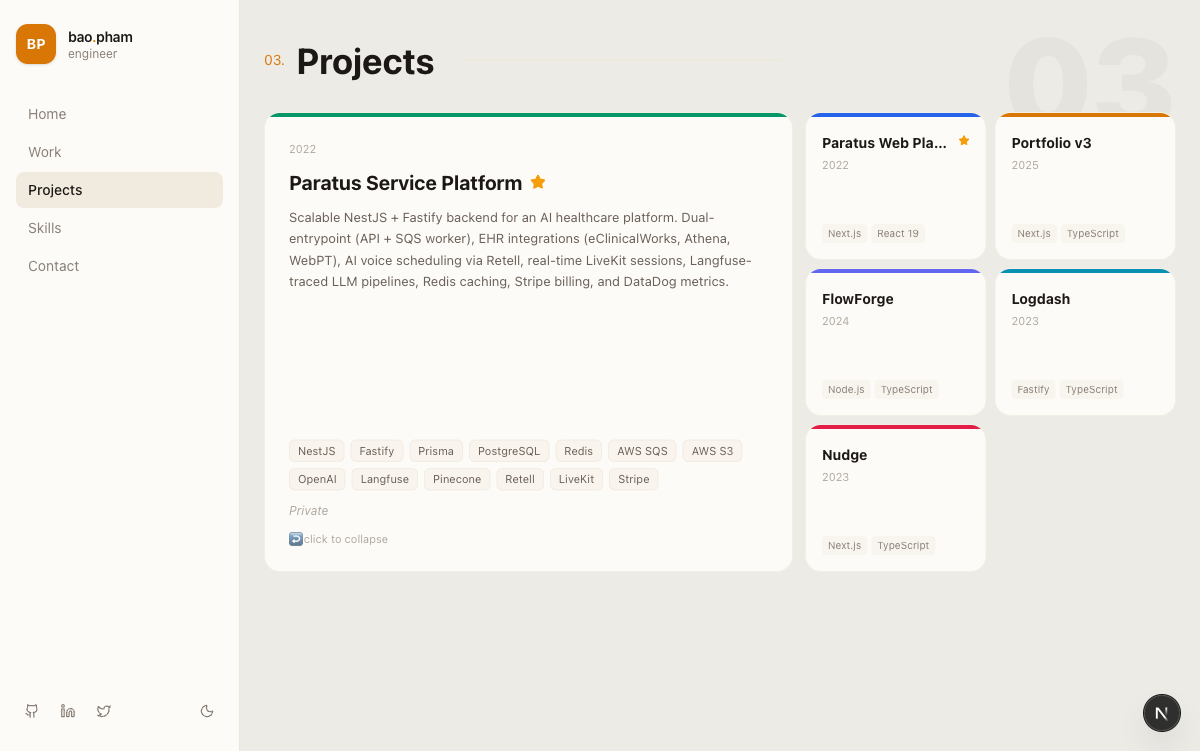
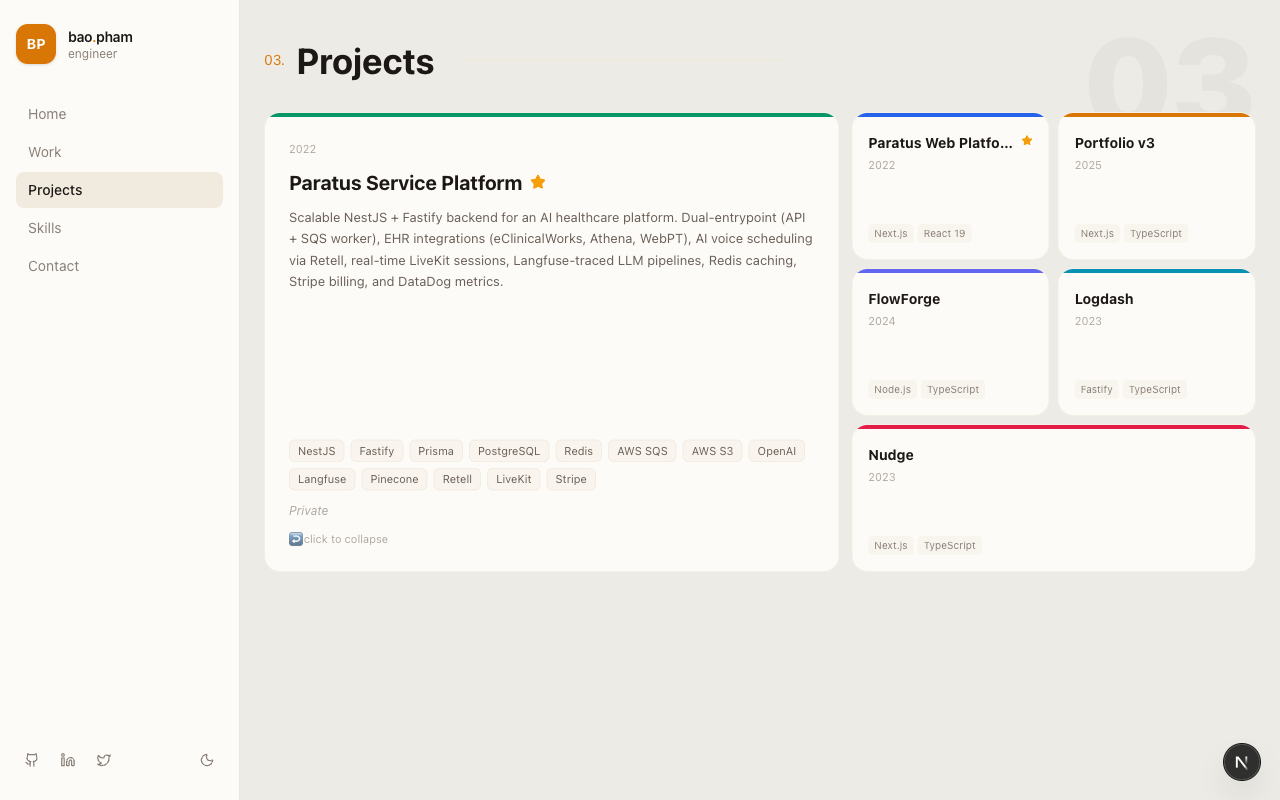
fix: bento grid smart space-filling — column-split center expand + full-width last card
- Split center-expand left/right columns by grid column position (not array index)
  so P2 expanded gets left=[P1,P4] and right=[P3,P5,P6]
- Add columnHeights() helper: 1 card→180px fixed, 2 cards→first fixed+last grows,
  3+ cards→all flex-1 equal
- OthersMiniGrid: last lone card in a 2-col mini-grid gets col-span-2 to fill the gap
- Updated docs screenshots for all 4 states (grid, left, center, right expand)

diff --git a/components/sections/Projects.tsx b/components/sections/Projects.tsx
@@ -27,6 +27,16 @@ function getExpandDir(cardIndex: number, cols: number): ExpandDir {
   return 'center'
 }
 
+// Returns per-card height classes for a side column in center-expand mode.
+// n=1 → fixed 180px; n=2 → first fixed 180px + last stretches; n>=3 → all flex-1
+function columnHeights(n: number): ('fixed' | 'grow')[] {
+  if (n <= 0) return []
+  if (n === 1) return ['fixed']
+  const naturalH = n * 180 + (n - 1) * 8
+  if (naturalH <= 460) return [...Array(n - 1).fill('fixed'), 'grow']
+  return Array(n).fill('grow')
+}
+
 // ── Card content: collapsed (grid + mini-grid) ────────────────────────────────
 
 function CollapsedCard({ project }: { project: Project }) {
@@ -144,15 +154,17 @@ function OthersMiniGrid({
   setActiveId: (id: string | null) => void
 }) {
   const miniCols: 1 | 2 = others.length <= 2 ? 1 : 2
+  const lastAlone = miniCols === 2 && others.length % 2 !== 0
   return (
     <div className={`flex-1 grid gap-2 ${miniColsMap[miniCols]} auto-rows-[1fr] min-h-0`}>
-      {others.map((p) => (
+      {others.map((p, i) => (
         <motion.article
           key={p.id}
           layoutId={`proj-${p.id}`}
-          className="rounded-2xl overflow-hidden cursor-pointer
+          className={`rounded-2xl overflow-hidden cursor-pointer
             bg-cream-50 dark:bg-dark-surface-2
-            border border-cream-200/60 dark:border-dark-border"
+            border border-cream-200/60 dark:border-dark-border
+            ${lastAlone && i === others.length - 1 ? 'col-span-2' : ''}`}
           onClick={() => setActiveId(String(p.id))}
           whileHover={{ scale: 1.02 }}
           transition={spring}
@@ -182,8 +194,13 @@ export function Projects({ projects: rawProjects }: ProjectsProps) {
   const activeIndex = activeId ? projects.findIndex((p) => String(p.id) === activeId) : -1
   const activeProject = activeIndex !== -1 ? projects[activeIndex] : null
 
-  const leftOthers = activeIndex !== -1 ? projects.slice(0, activeIndex) : []
-  const rightOthers = activeIndex !== -1 ? projects.slice(activeIndex + 1) : []
+  const activeCol = activeIndex !== -1 ? activeIndex % cols : -1
+  const leftOthers = activeIndex !== -1
+    ? projects.filter((_, i) => i !== activeIndex && i % cols < activeCol)
+    : []
+  const rightOthers = activeIndex !== -1
+    ? projects.filter((_, i) => i !== activeIndex && i % cols >= activeCol)
+    : []
   const others = projects.filter((p) => String(p.id) !== activeId)
 
   // Determine expand direction, falling back if one side is empty
@@ -266,20 +283,25 @@ export function Projects({ projects: rawProjects }: ProjectsProps) {
         {/* ── Mode 3: CENTER expanded ── */}
         {activeId && expandDir === 'center' && (
           <div className="flex gap-3" style={{ height: 460 }}>
-            {/* Left column: cards before active index */}
+            {/* Left column: cards in columns < active column */}
             <div className="flex-1 flex flex-col gap-2 min-h-0">
-              {leftOthers.map((p) => (
-                <motion.article
-                  key={p.id}
-                  layoutId={`proj-${p.id}`}
-                  className={`${cardBase} cursor-pointer flex-1 min-h-0`}
-                  onClick={() => setActiveId(String(p.id))}
-                  whileHover={{ scale: 1.02 }}
-                  transition={spring}
-                >
-                  <CollapsedCard project={p} />
-                </motion.article>
-              ))}
+              {leftOthers.map((p, i) => {
+                const heights = columnHeights(leftOthers.length)
+                return (
+                  <motion.article
+                    key={p.id}
+                    layoutId={`proj-${p.id}`}
+                    className={`${cardBase} cursor-pointer ${
+                      heights[i] === 'fixed' ? 'h-[180px] shrink-0' : 'flex-1 min-h-0'
+                    }`}
+                    onClick={() => setActiveId(String(p.id))}
+                    whileHover={{ scale: 1.02 }}
+                    transition={spring}
+                  >
+                    <CollapsedCard project={p} />
+                  </motion.article>
+                )
+              })}
             </div>
 
             {/* Center: expanded active card */}
@@ -293,20 +315,25 @@ export function Projects({ projects: rawProjects }: ProjectsProps) {
               {activeProject && <ExpandedCard project={activeProject} />}
             </motion.article>
 
-            {/* Right column: cards after active index */}
+            {/* Right column: cards in columns >= active column (excluding active) */}
             <div className="flex-1 flex flex-col gap-2 min-h-0">
-              {rightOthers.map((p) => (
-                <motion.article
-                  key={p.id}
-                  layoutId={`proj-${p.id}`}
-                  className={`${cardBase} cursor-pointer flex-1 min-h-0`}
-                  onClick={() => setActiveId(String(p.id))}
-                  whileHover={{ scale: 1.02 }}
-                  transition={spring}
-                >
-                  <CollapsedCard project={p} />
-                </motion.article>
-              ))}
+              {rightOthers.map((p, i) => {
+                const heights = columnHeights(rightOthers.length)
+                return (
+                  <motion.article
+                    key={p.id}
+                    layoutId={`proj-${p.id}`}
+                    className={`${cardBase} cursor-pointer ${
+                      heights[i] === 'fixed' ? 'h-[180px] shrink-0' : 'flex-1 min-h-0'
+                    }`}
+                    onClick={() => setActiveId(String(p.id))}
+                    whileHover={{ scale: 1.02 }}
+                    transition={spring}
+                  >
+                    <CollapsedCard project={p} />
+                  </motion.article>
+                )
+              })}
             </div>
           </div>
         )}
